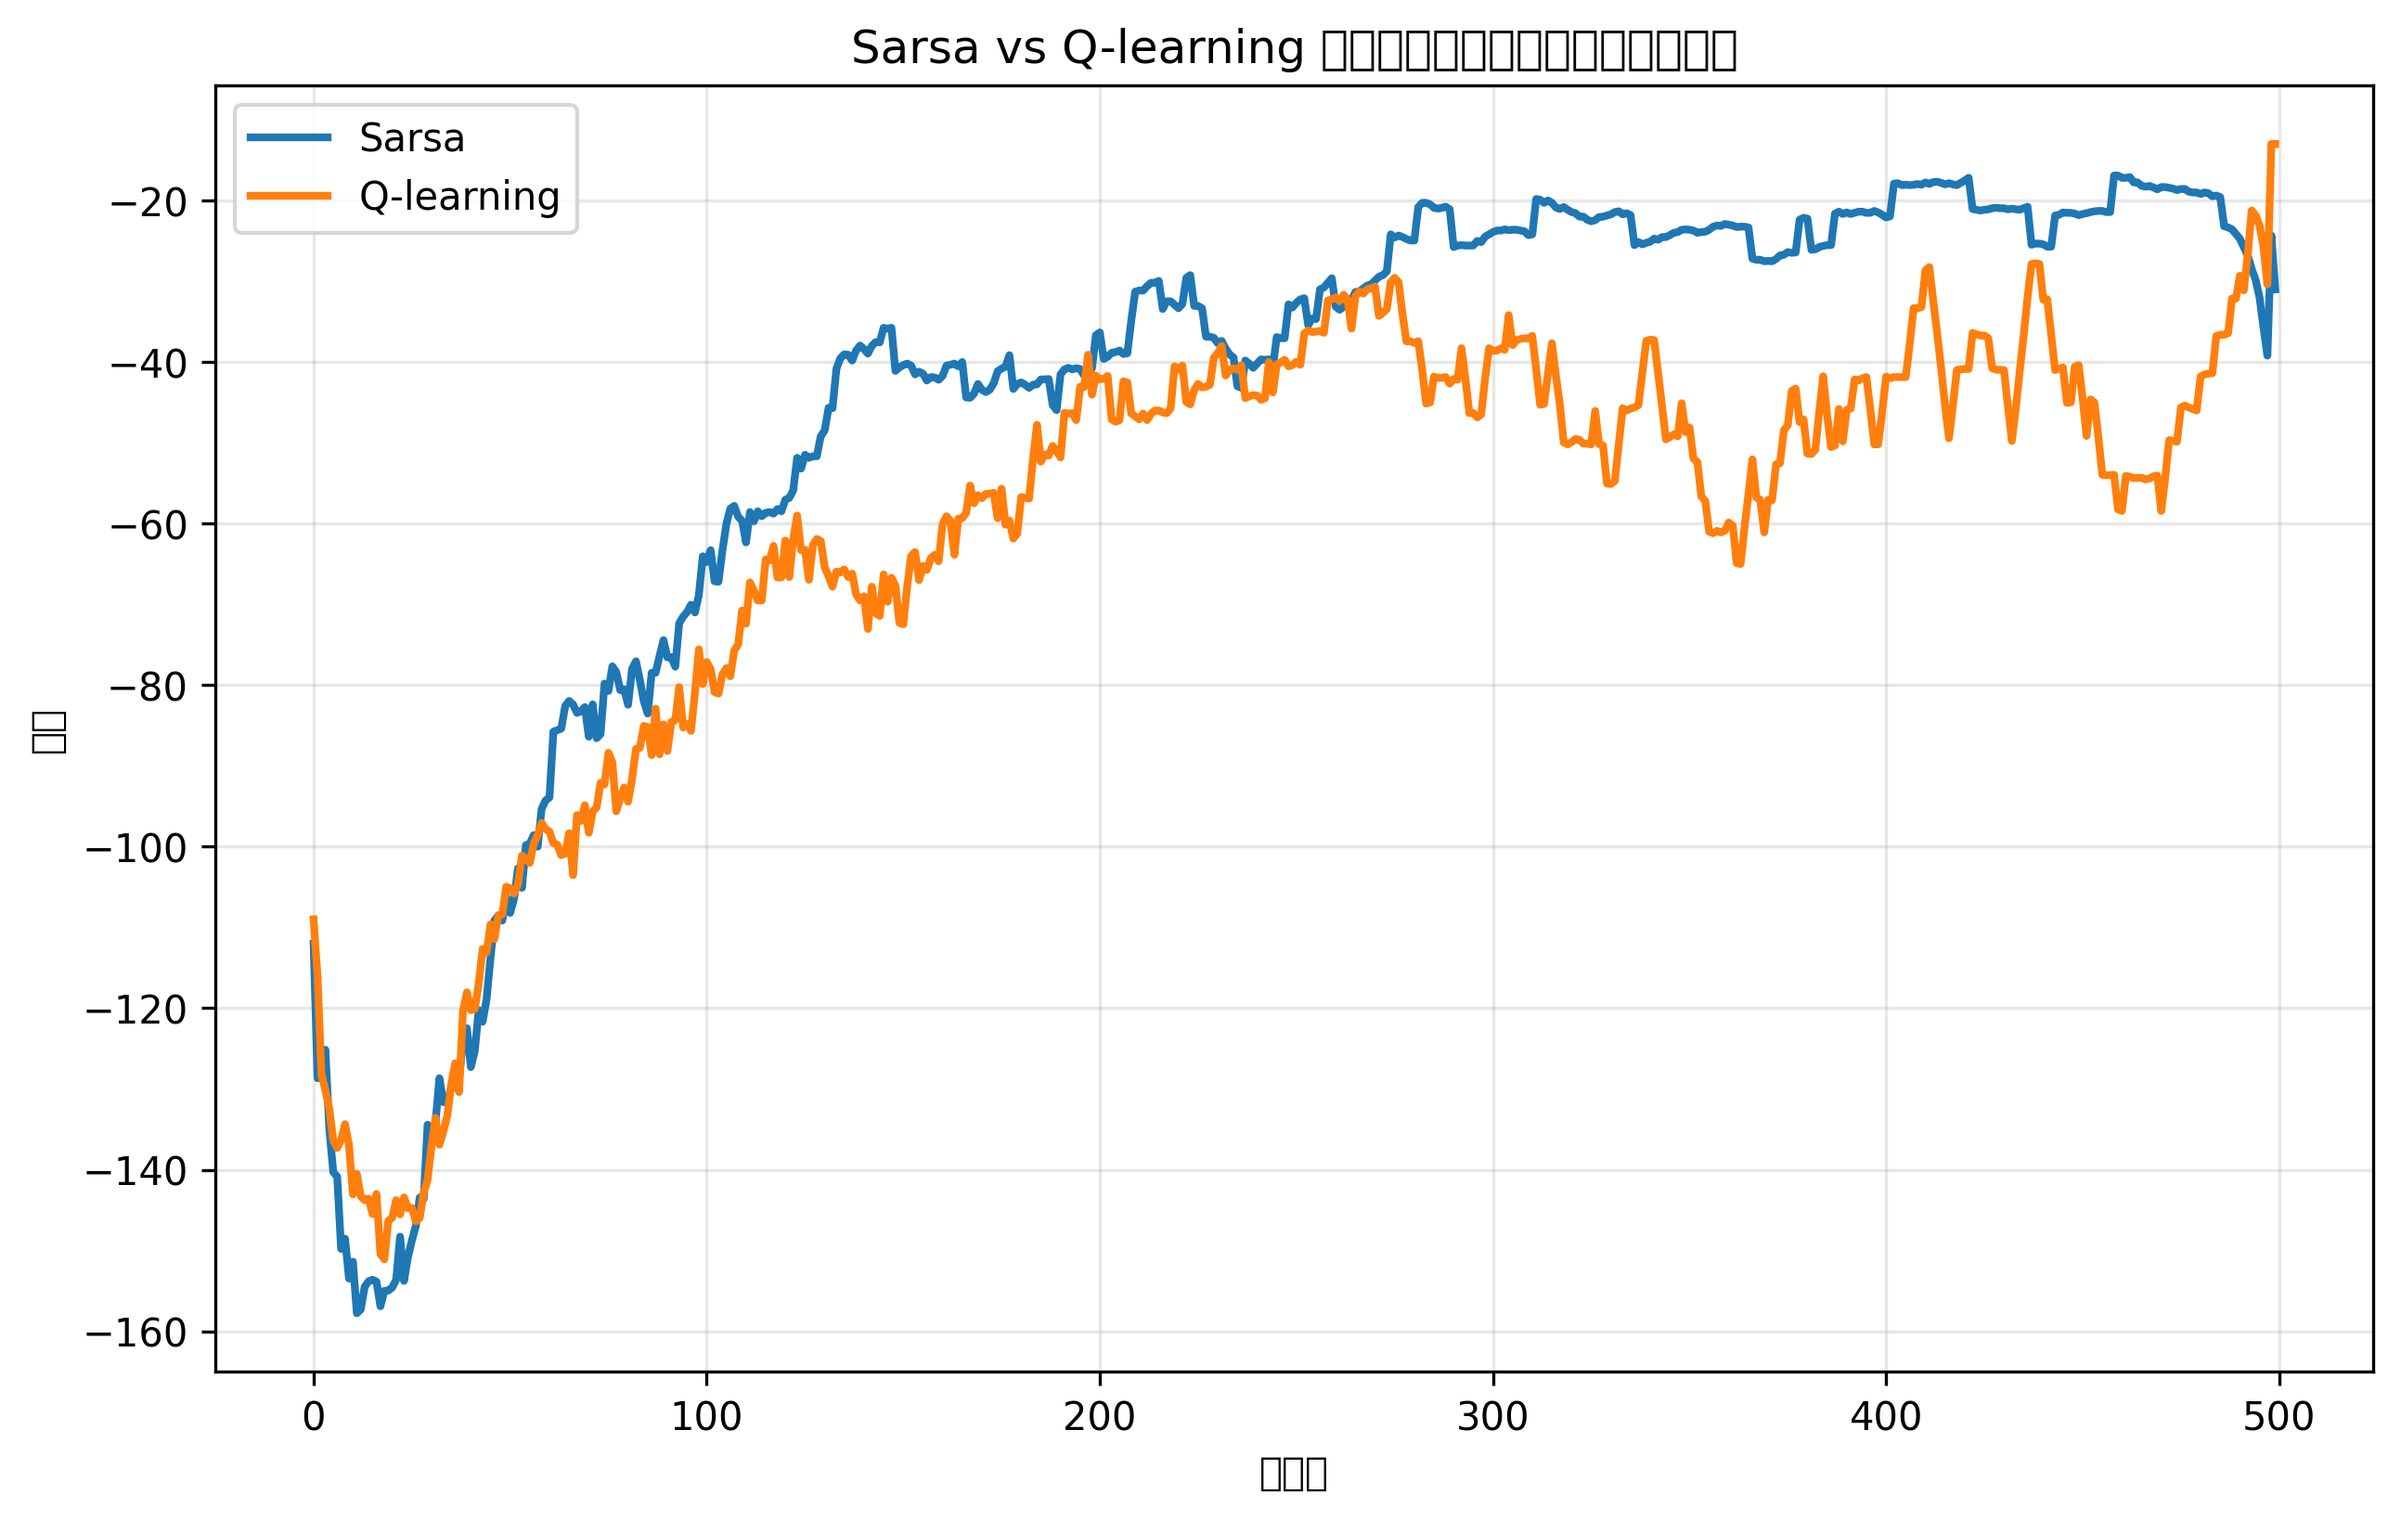
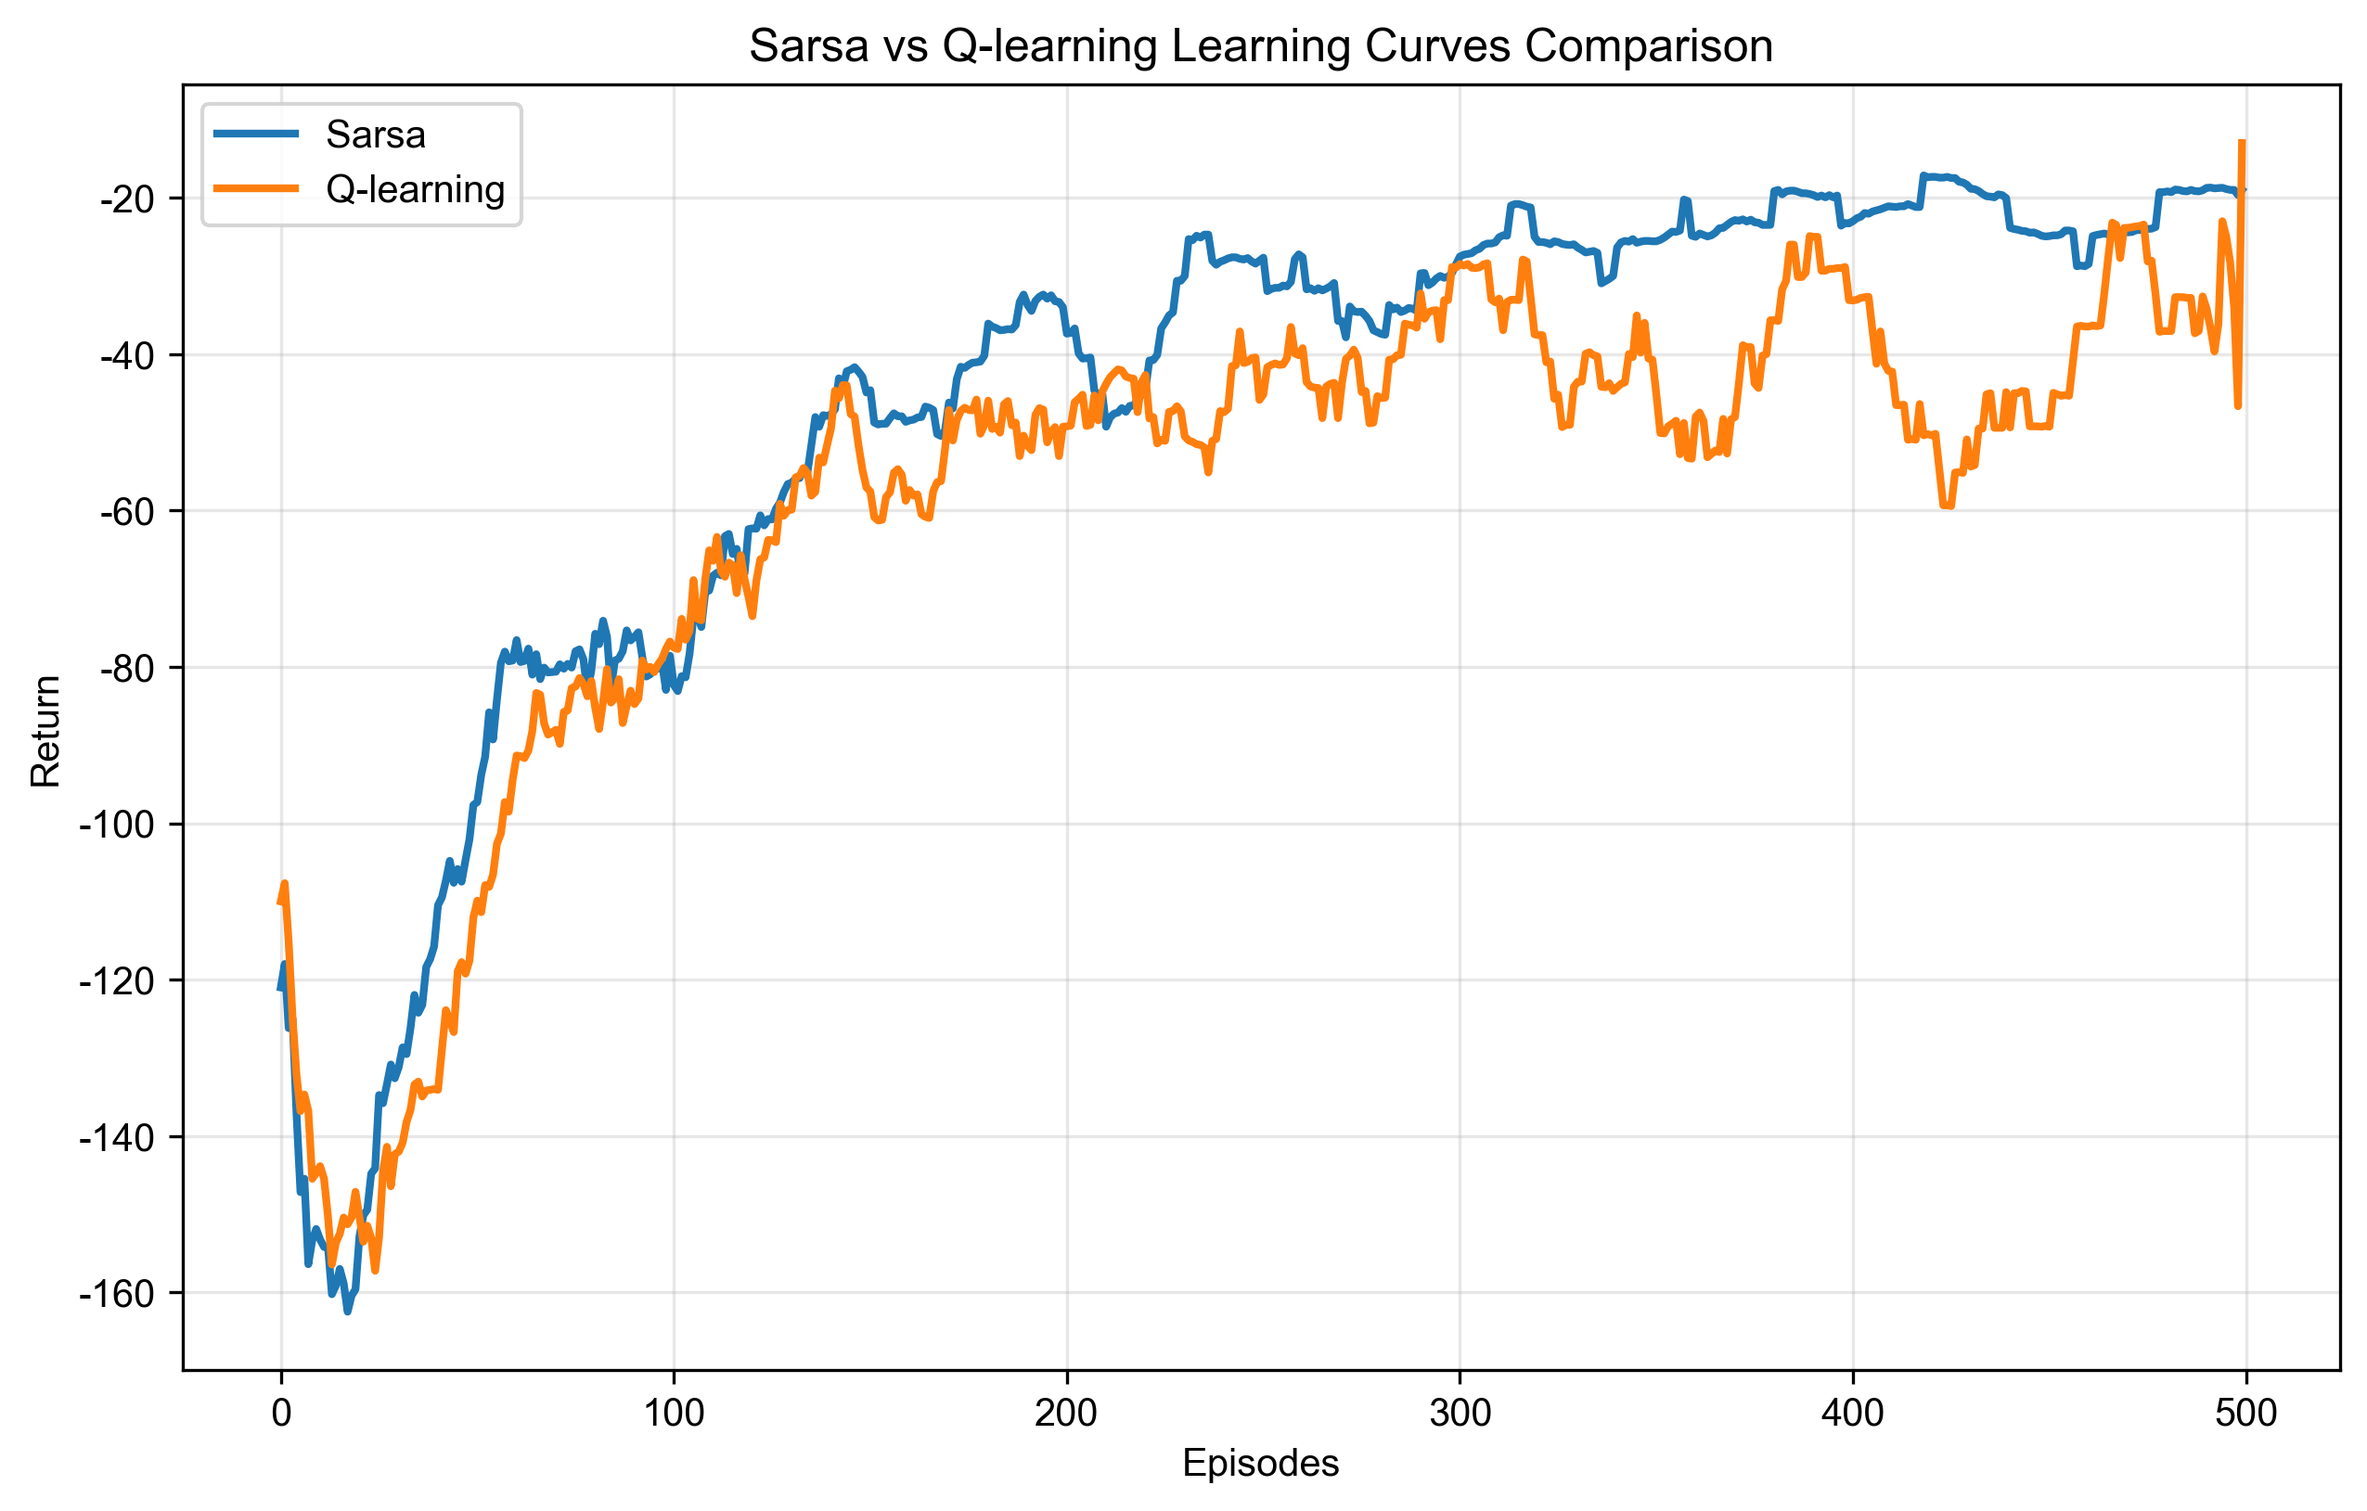
修复matplotlib中文字体显示问题，将图表标签改为英文

diff --git a/Cliff_Walking/temporal_difference_algorithms.py b/Cliff_Walking/temporal_difference_algorithms.py
@@ -3,6 +3,10 @@ import matplotlib.pyplot as plt
 from collections import defaultdict
 import random
 
+# 设置中文字体
+plt.rcParams['font.sans-serif'] = ['SimHei', 'Arial Unicode MS', 'DejaVu Sans']
+plt.rcParams['axes.unicode_minus'] = False
+
 class CliffWalkingEnv:
     """悬崖漫步环境"""
     def __init__(self, ncol=12, nrow=4):
@@ -258,19 +262,19 @@ if __name__ == "__main__":
     
     plt.subplot(1, 2, 1)
     plt.plot(sarsa_returns, label='Sarsa', alpha=0.6)
-    plt.plot(moving_average(sarsa_returns, 21), label='Sarsa (平滑)', linewidth=2)
-    plt.xlabel('回合数')
-    plt.ylabel('回报')
-    plt.title('Sarsa算法在悬崖漫步环境中的学习曲线')
+    plt.plot(moving_average(sarsa_returns, 21), label='Sarsa (Smoothed)', linewidth=2)
+    plt.xlabel('Episodes')
+    plt.ylabel('Return')
+    plt.title('Sarsa Learning Curve in Cliff Walking')
     plt.legend()
     plt.grid(True, alpha=0.3)
     
     plt.subplot(1, 2, 2)
     plt.plot(qlearning_returns, label='Q-learning', alpha=0.6)
-    plt.plot(moving_average(qlearning_returns, 21), label='Q-learning (平滑)', linewidth=2)
-    plt.xlabel('回合数')
-    plt.ylabel('回报')
-    plt.title('Q-learning算法在悬崖漫步环境中的学习曲线')
+    plt.plot(moving_average(qlearning_returns, 21), label='Q-learning (Smoothed)', linewidth=2)
+    plt.xlabel('Episodes')
+    plt.ylabel('Return')
+    plt.title('Q-learning Learning Curve in Cliff Walking')
     plt.legend()
     plt.grid(True, alpha=0.3)
     
@@ -287,9 +291,9 @@ if __name__ == "__main__":
     plt.figure(figsize=(10, 6))
     plt.plot(moving_average(sarsa_returns, 21), label='Sarsa', linewidth=2)
     plt.plot(moving_average(qlearning_returns, 21), label='Q-learning', linewidth=2)
-    plt.xlabel('回合数')
-    plt.ylabel('回报')
-    plt.title('Sarsa vs Q-learning 在悬崖漫步环境中的学习曲线对比')
+    plt.xlabel('Episodes')
+    plt.ylabel('Return')
+    plt.title('Sarsa vs Q-learning Learning Curves Comparison')
     plt.legend()
     plt.grid(True, alpha=0.3)
     plt.savefig('sarsa_vs_qlearning.png', dpi=300, bbox_inches='tight')
